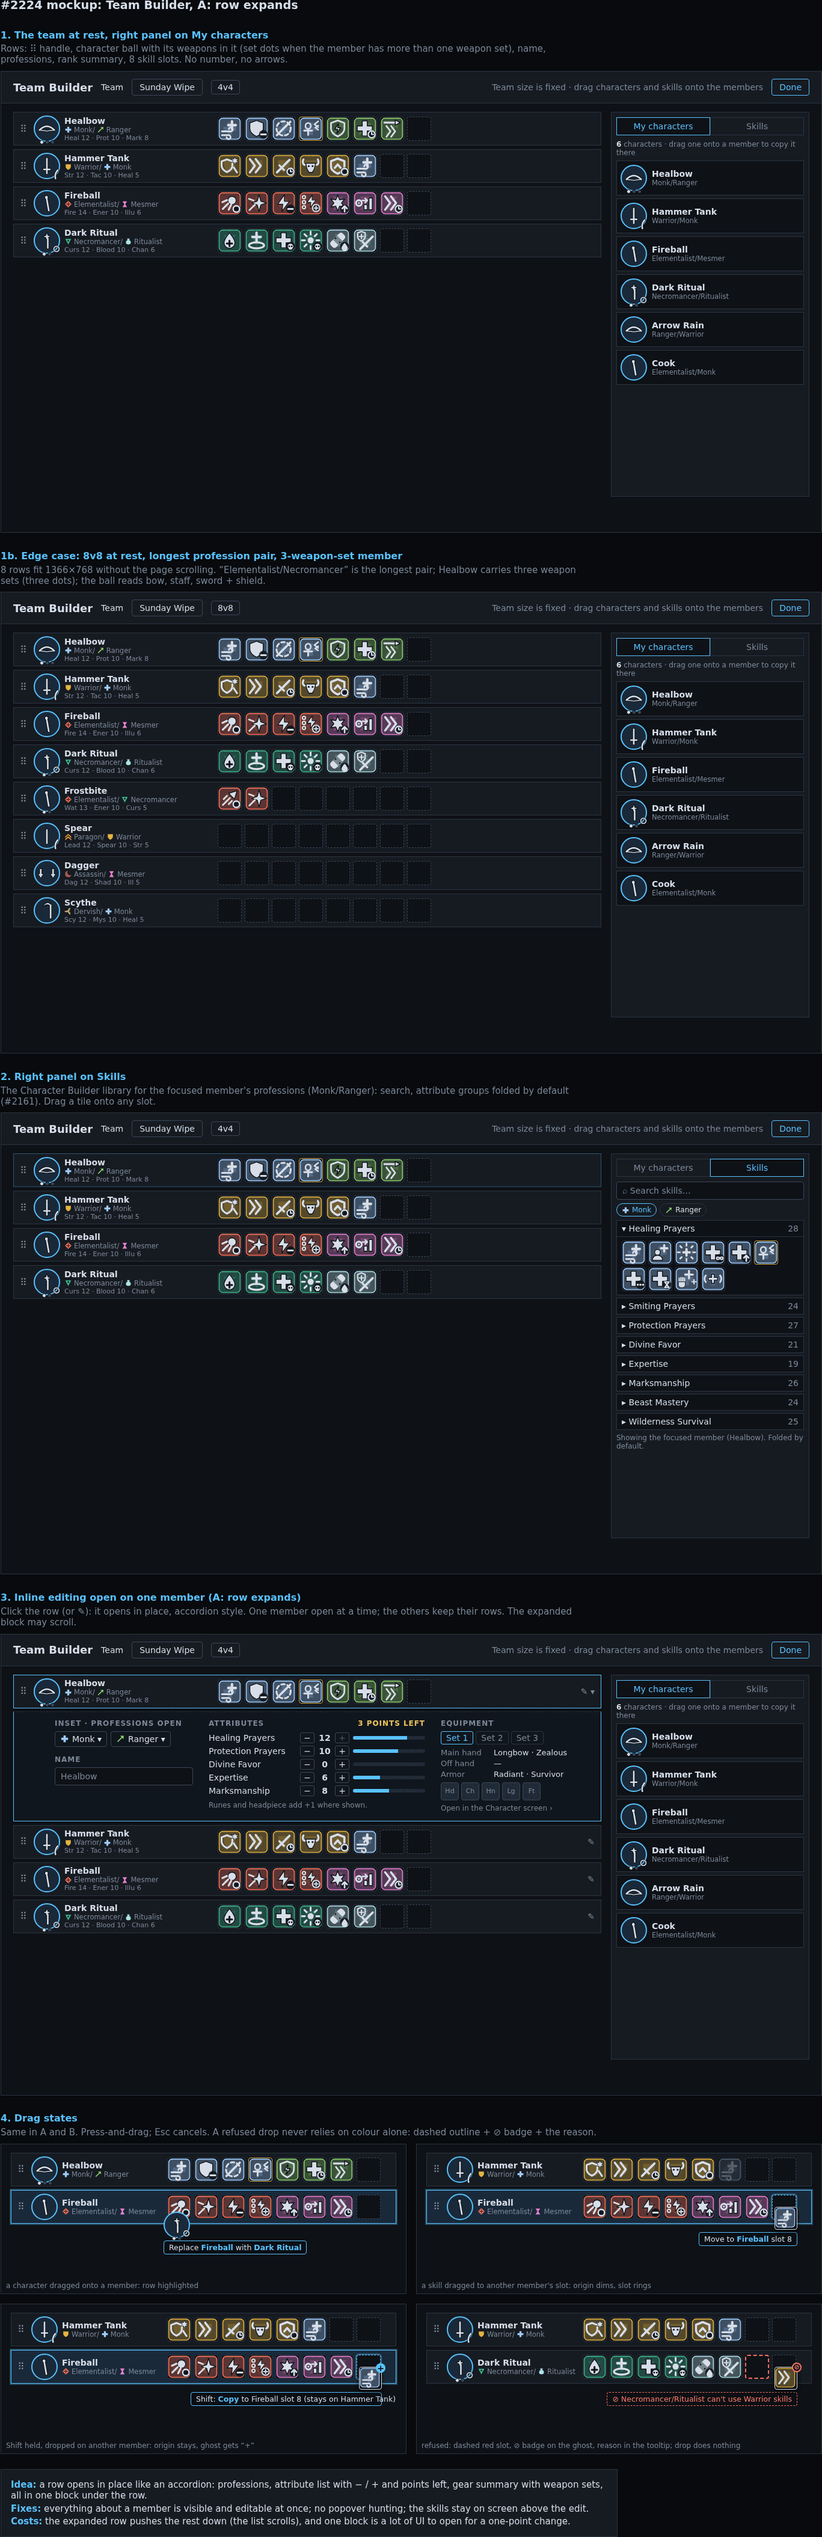
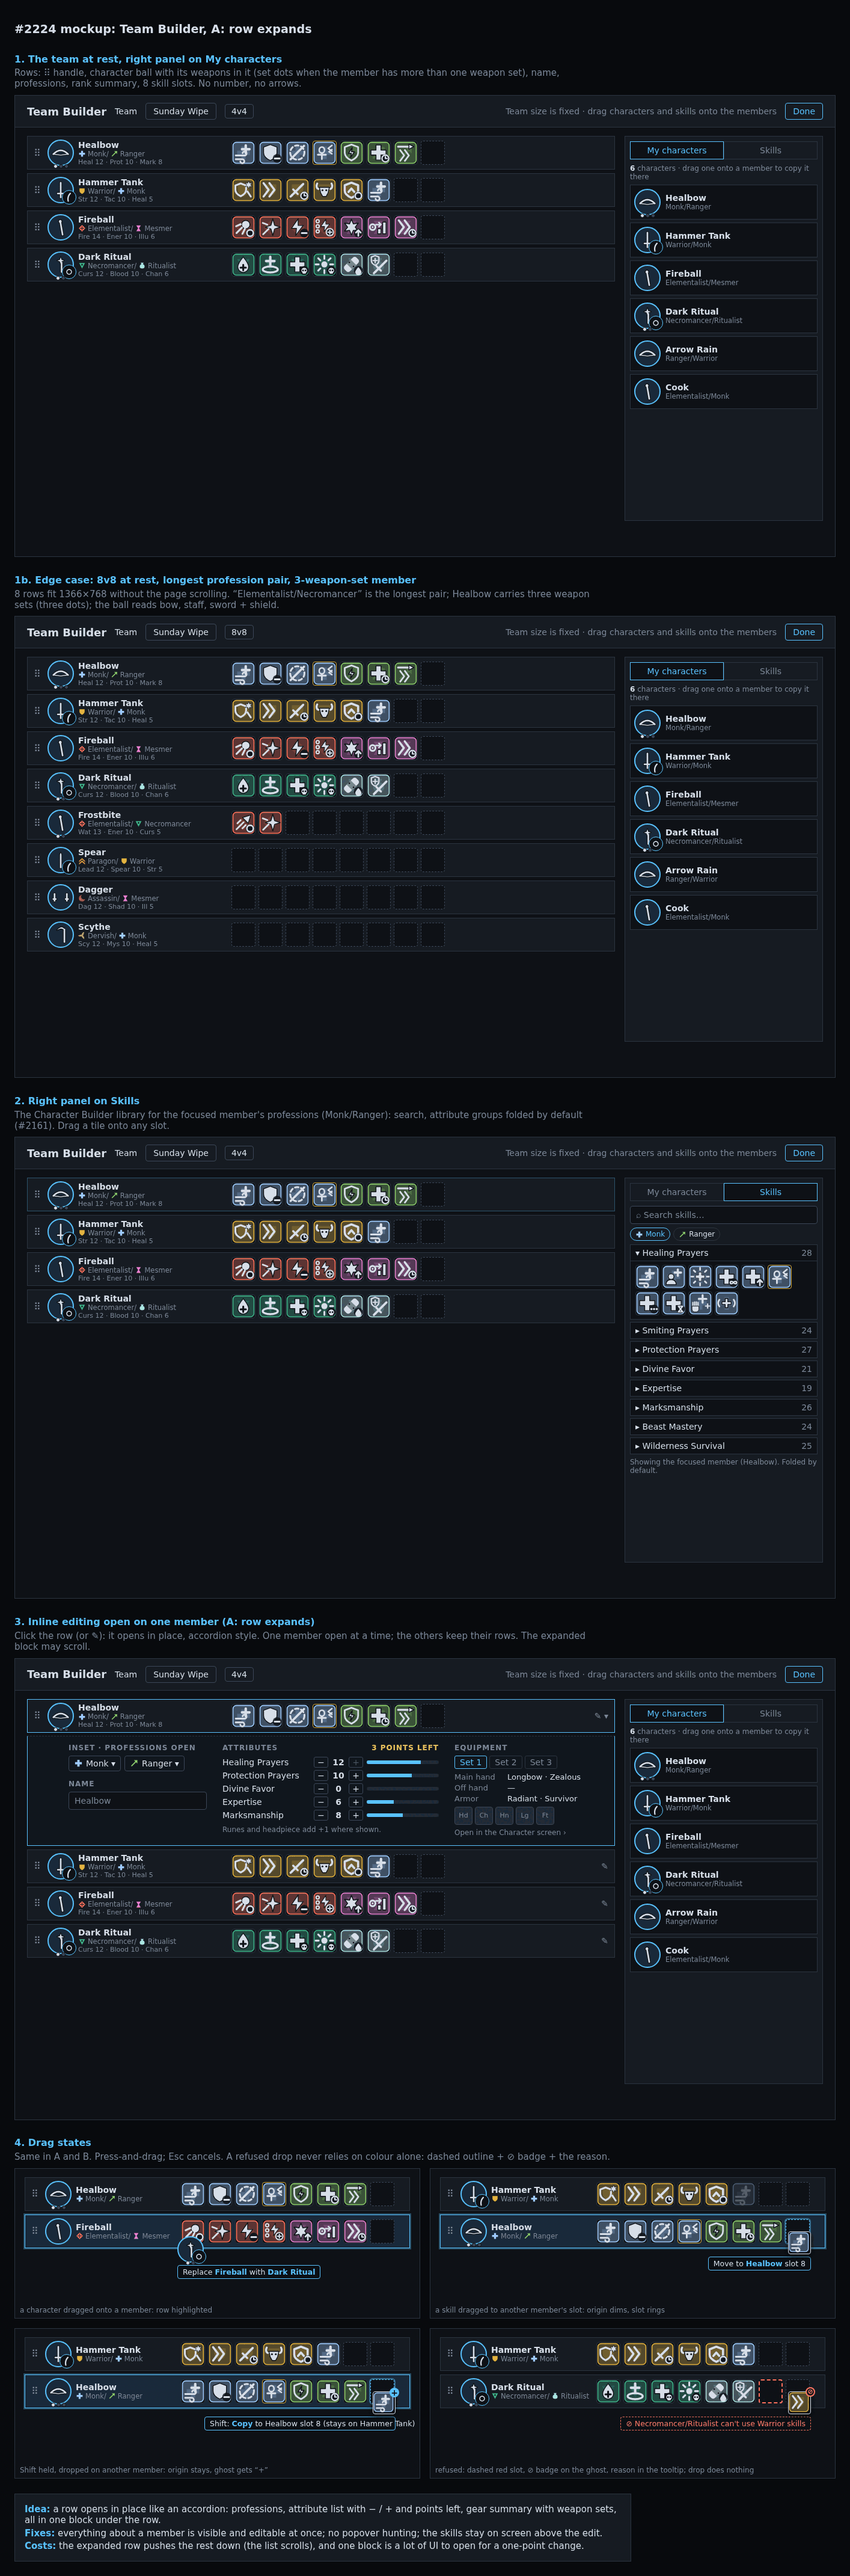
#2224: Move/Copy frames drop a skill the target can use; PNGs keep the right edge; shield disc on the ball

diff --git a/docs/mockups/2224-team-builder-a.html b/docs/mockups/2224-team-builder-a.html
@@ -156,10 +156,14 @@
   }
   .ball img.o {
     position: absolute;
-    width: 20px;
-    height: 20px;
+    width: 18px;
+    height: 18px;
     right: -6px;
     bottom: -4px;
+    background: #0e1116;
+    border: 1px solid #59c2ff;
+    border-radius: 50%;
+    padding: 2px;
   }
   .ball .sets {
     position: absolute;
@@ -1594,37 +1598,36 @@
       <div style="height: 6px"></div>
       <div class="row tgt">
         <span class="h">⠿</span>
-        <div class="ball"><img class="w" src="../../apps/web/public/icons/weapon/staff.svg" /></div>
+        <div class="ball">
+          <img class="w" src="../../apps/web/public/icons/weapon/longbow.svg" />
+          <div class="sets"><i class=""></i><i class="off"></i><i class="off"></i></div>
+        </div>
         <div class="id">
-          <div class="nm">Fireball</div>
+          <div class="nm">Healbow</div>
           <div class="pf">
-            <img src="../../apps/web/public/icons/profession/elementalist.svg" />Elementalist/<img
-              src="../../apps/web/public/icons/profession/mesmer.svg"
-            />Mesmer
+            <img src="../../apps/web/public/icons/profession/monk.svg" />Monk/<img
+              src="../../apps/web/public/icons/profession/ranger.svg"
+            />Ranger
           </div>
-          <div class="rk">Fire 14 · Ener 10 · Illu 6</div>
+          <div class="rk">Heal 12 · Prot 10 · Mark 8</div>
         </div>
         <span class="sl"
-          ><img src="../../apps/web/public/icons/skill/elementalist.fireball.svg" /></span
+          ><img src="../../apps/web/public/icons/skill/monk.healing-breeze.svg" /></span
         ><span class="sl"
-          ><img src="../../apps/web/public/icons/skill/elementalist.flare.svg" /></span
+          ><img src="../../apps/web/public/icons/skill/monk.protective-spirit.svg" /></span
+        ><span class="sl"><img src="../../apps/web/public/icons/skill/monk.remove-hex.svg" /></span
+        ><span class="sl el"><img src="../../apps/web/public/icons/skill/monk.rebirth.svg" /></span
         ><span class="sl"
-          ><img
-            src="../../apps/web/public/icons/skill/elementalist.glyph-of-lesser-energy.svg" /></span
+          ><img src="../../apps/web/public/icons/skill/ranger.lightning-reflexes.svg" /></span
         ><span class="sl"
-          ><img src="../../apps/web/public/icons/skill/elementalist.ether-renewal.svg" /></span
-        ><span class="sl"
-          ><img src="../../apps/web/public/icons/skill/mesmer.power-drain.svg" /></span
-        ><span class="sl"
-          ><img src="../../apps/web/public/icons/skill/mesmer.signet-of-illusions.svg" /></span
-        ><span class="sl"
-          ><img src="../../apps/web/public/icons/skill/mesmer.mantra-of-recovery.svg" /></span
+          ><img src="../../apps/web/public/icons/skill/ranger.troll-unguent.svg" /></span
+        ><span class="sl"><img src="../../apps/web/public/icons/skill/ranger.dodge.svg" /></span
         ><span class="sl em drop"></span><span class="ed"></span>
       </div>
     </div>
     <div class="ghost" style="right: 40px; top: 104px">
       <div class="gi"><img src="../../apps/web/public/icons/skill/monk.healing-breeze.svg" /></div>
-      <div class="tip">Move to <b>Fireball</b> slot 8</div>
+      <div class="tip">Move to <b>Healbow</b> slot 8</div>
     </div>
     <small>a skill dragged to another member's slot: origin dims, slot rings</small>
   </div>
@@ -1662,37 +1665,36 @@
       <div style="height: 6px"></div>
       <div class="row tgt">
         <span class="h">⠿</span>
-        <div class="ball"><img class="w" src="../../apps/web/public/icons/weapon/staff.svg" /></div>
+        <div class="ball">
+          <img class="w" src="../../apps/web/public/icons/weapon/longbow.svg" />
+          <div class="sets"><i class=""></i><i class="off"></i><i class="off"></i></div>
+        </div>
         <div class="id">
-          <div class="nm">Fireball</div>
+          <div class="nm">Healbow</div>
           <div class="pf">
-            <img src="../../apps/web/public/icons/profession/elementalist.svg" />Elementalist/<img
-              src="../../apps/web/public/icons/profession/mesmer.svg"
-            />Mesmer
+            <img src="../../apps/web/public/icons/profession/monk.svg" />Monk/<img
+              src="../../apps/web/public/icons/profession/ranger.svg"
+            />Ranger
           </div>
-          <div class="rk">Fire 14 · Ener 10 · Illu 6</div>
+          <div class="rk">Heal 12 · Prot 10 · Mark 8</div>
         </div>
         <span class="sl"
-          ><img src="../../apps/web/public/icons/skill/elementalist.fireball.svg" /></span
+          ><img src="../../apps/web/public/icons/skill/monk.healing-breeze.svg" /></span
         ><span class="sl"
-          ><img src="../../apps/web/public/icons/skill/elementalist.flare.svg" /></span
+          ><img src="../../apps/web/public/icons/skill/monk.protective-spirit.svg" /></span
+        ><span class="sl"><img src="../../apps/web/public/icons/skill/monk.remove-hex.svg" /></span
+        ><span class="sl el"><img src="../../apps/web/public/icons/skill/monk.rebirth.svg" /></span
         ><span class="sl"
-          ><img
-            src="../../apps/web/public/icons/skill/elementalist.glyph-of-lesser-energy.svg" /></span
+          ><img src="../../apps/web/public/icons/skill/ranger.lightning-reflexes.svg" /></span
         ><span class="sl"
-          ><img src="../../apps/web/public/icons/skill/elementalist.ether-renewal.svg" /></span
-        ><span class="sl"
-          ><img src="../../apps/web/public/icons/skill/mesmer.power-drain.svg" /></span
-        ><span class="sl"
-          ><img src="../../apps/web/public/icons/skill/mesmer.signet-of-illusions.svg" /></span
-        ><span class="sl"
-          ><img src="../../apps/web/public/icons/skill/mesmer.mantra-of-recovery.svg" /></span
+          ><img src="../../apps/web/public/icons/skill/ranger.troll-unguent.svg" /></span
+        ><span class="sl"><img src="../../apps/web/public/icons/skill/ranger.dodge.svg" /></span
         ><span class="sl em drop"></span><span class="ed"></span>
       </div>
     </div>
     <div class="ghost cp" style="right: 40px; top: 104px">
       <div class="gi"><img src="../../apps/web/public/icons/skill/monk.healing-breeze.svg" /></div>
-      <div class="tip">Shift: <b>Copy</b> to Fireball slot 8 (stays on Hammer Tank)</div>
+      <div class="tip">Shift: <b>Copy</b> to Healbow slot 8 (stays on Hammer Tank)</div>
     </div>
     <small>Shift held, dropped on another member: origin stays, ghost gets “+”</small>
   </div>

diff --git a/docs/mockups/2224-team-builder-b.html b/docs/mockups/2224-team-builder-b.html
@@ -156,10 +156,14 @@
   }
   .ball img.o {
     position: absolute;
-    width: 20px;
-    height: 20px;
+    width: 18px;
+    height: 18px;
     right: -6px;
     bottom: -4px;
+    background: #0e1116;
+    border: 1px solid #59c2ff;
+    border-radius: 50%;
+    padding: 2px;
   }
   .ball .sets {
     position: absolute;
@@ -1586,37 +1590,36 @@
       <div style="height: 6px"></div>
       <div class="row tgt">
         <span class="h">⠿</span>
-        <div class="ball"><img class="w" src="../../apps/web/public/icons/weapon/staff.svg" /></div>
+        <div class="ball">
+          <img class="w" src="../../apps/web/public/icons/weapon/longbow.svg" />
+          <div class="sets"><i class=""></i><i class="off"></i><i class="off"></i></div>
+        </div>
         <div class="id">
-          <div class="nm">Fireball</div>
+          <div class="nm">Healbow</div>
           <div class="pf">
-            <img src="../../apps/web/public/icons/profession/elementalist.svg" />Elementalist/<img
-              src="../../apps/web/public/icons/profession/mesmer.svg"
-            />Mesmer
+            <img src="../../apps/web/public/icons/profession/monk.svg" />Monk/<img
+              src="../../apps/web/public/icons/profession/ranger.svg"
+            />Ranger
           </div>
-          <div class="rk">Fire 14 · Ener 10 · Illu 6</div>
+          <div class="rk">Heal 12 · Prot 10 · Mark 8</div>
         </div>
         <span class="sl"
-          ><img src="../../apps/web/public/icons/skill/elementalist.fireball.svg" /></span
+          ><img src="../../apps/web/public/icons/skill/monk.healing-breeze.svg" /></span
         ><span class="sl"
-          ><img src="../../apps/web/public/icons/skill/elementalist.flare.svg" /></span
+          ><img src="../../apps/web/public/icons/skill/monk.protective-spirit.svg" /></span
+        ><span class="sl"><img src="../../apps/web/public/icons/skill/monk.remove-hex.svg" /></span
+        ><span class="sl el"><img src="../../apps/web/public/icons/skill/monk.rebirth.svg" /></span
         ><span class="sl"
-          ><img
-            src="../../apps/web/public/icons/skill/elementalist.glyph-of-lesser-energy.svg" /></span
+          ><img src="../../apps/web/public/icons/skill/ranger.lightning-reflexes.svg" /></span
         ><span class="sl"
-          ><img src="../../apps/web/public/icons/skill/elementalist.ether-renewal.svg" /></span
-        ><span class="sl"
-          ><img src="../../apps/web/public/icons/skill/mesmer.power-drain.svg" /></span
-        ><span class="sl"
-          ><img src="../../apps/web/public/icons/skill/mesmer.signet-of-illusions.svg" /></span
-        ><span class="sl"
-          ><img src="../../apps/web/public/icons/skill/mesmer.mantra-of-recovery.svg" /></span
+          ><img src="../../apps/web/public/icons/skill/ranger.troll-unguent.svg" /></span
+        ><span class="sl"><img src="../../apps/web/public/icons/skill/ranger.dodge.svg" /></span
         ><span class="sl em drop"></span><span class="ed"></span>
       </div>
     </div>
     <div class="ghost" style="right: 40px; top: 104px">
       <div class="gi"><img src="../../apps/web/public/icons/skill/monk.healing-breeze.svg" /></div>
-      <div class="tip">Move to <b>Fireball</b> slot 8</div>
+      <div class="tip">Move to <b>Healbow</b> slot 8</div>
     </div>
     <small>a skill dragged to another member's slot: origin dims, slot rings</small>
   </div>
@@ -1654,37 +1657,36 @@
       <div style="height: 6px"></div>
       <div class="row tgt">
         <span class="h">⠿</span>
-        <div class="ball"><img class="w" src="../../apps/web/public/icons/weapon/staff.svg" /></div>
+        <div class="ball">
+          <img class="w" src="../../apps/web/public/icons/weapon/longbow.svg" />
+          <div class="sets"><i class=""></i><i class="off"></i><i class="off"></i></div>
+        </div>
         <div class="id">
-          <div class="nm">Fireball</div>
+          <div class="nm">Healbow</div>
           <div class="pf">
-            <img src="../../apps/web/public/icons/profession/elementalist.svg" />Elementalist/<img
-              src="../../apps/web/public/icons/profession/mesmer.svg"
-            />Mesmer
+            <img src="../../apps/web/public/icons/profession/monk.svg" />Monk/<img
+              src="../../apps/web/public/icons/profession/ranger.svg"
+            />Ranger
           </div>
-          <div class="rk">Fire 14 · Ener 10 · Illu 6</div>
+          <div class="rk">Heal 12 · Prot 10 · Mark 8</div>
         </div>
         <span class="sl"
-          ><img src="../../apps/web/public/icons/skill/elementalist.fireball.svg" /></span
+          ><img src="../../apps/web/public/icons/skill/monk.healing-breeze.svg" /></span
         ><span class="sl"
-          ><img src="../../apps/web/public/icons/skill/elementalist.flare.svg" /></span
+          ><img src="../../apps/web/public/icons/skill/monk.protective-spirit.svg" /></span
+        ><span class="sl"><img src="../../apps/web/public/icons/skill/monk.remove-hex.svg" /></span
+        ><span class="sl el"><img src="../../apps/web/public/icons/skill/monk.rebirth.svg" /></span
         ><span class="sl"
-          ><img
-            src="../../apps/web/public/icons/skill/elementalist.glyph-of-lesser-energy.svg" /></span
+          ><img src="../../apps/web/public/icons/skill/ranger.lightning-reflexes.svg" /></span
         ><span class="sl"
-          ><img src="../../apps/web/public/icons/skill/elementalist.ether-renewal.svg" /></span
-        ><span class="sl"
-          ><img src="../../apps/web/public/icons/skill/mesmer.power-drain.svg" /></span
-        ><span class="sl"
-          ><img src="../../apps/web/public/icons/skill/mesmer.signet-of-illusions.svg" /></span
-        ><span class="sl"
-          ><img src="../../apps/web/public/icons/skill/mesmer.mantra-of-recovery.svg" /></span
+          ><img src="../../apps/web/public/icons/skill/ranger.troll-unguent.svg" /></span
+        ><span class="sl"><img src="../../apps/web/public/icons/skill/ranger.dodge.svg" /></span
         ><span class="sl em drop"></span><span class="ed"></span>
       </div>
     </div>
     <div class="ghost cp" style="right: 40px; top: 104px">
       <div class="gi"><img src="../../apps/web/public/icons/skill/monk.healing-breeze.svg" /></div>
-      <div class="tip">Shift: <b>Copy</b> to Fireball slot 8 (stays on Hammer Tank)</div>
+      <div class="tip">Shift: <b>Copy</b> to Healbow slot 8 (stays on Hammer Tank)</div>
     </div>
     <small>Shift held, dropped on another member: origin stays, ghost gets “+”</small>
   </div>
